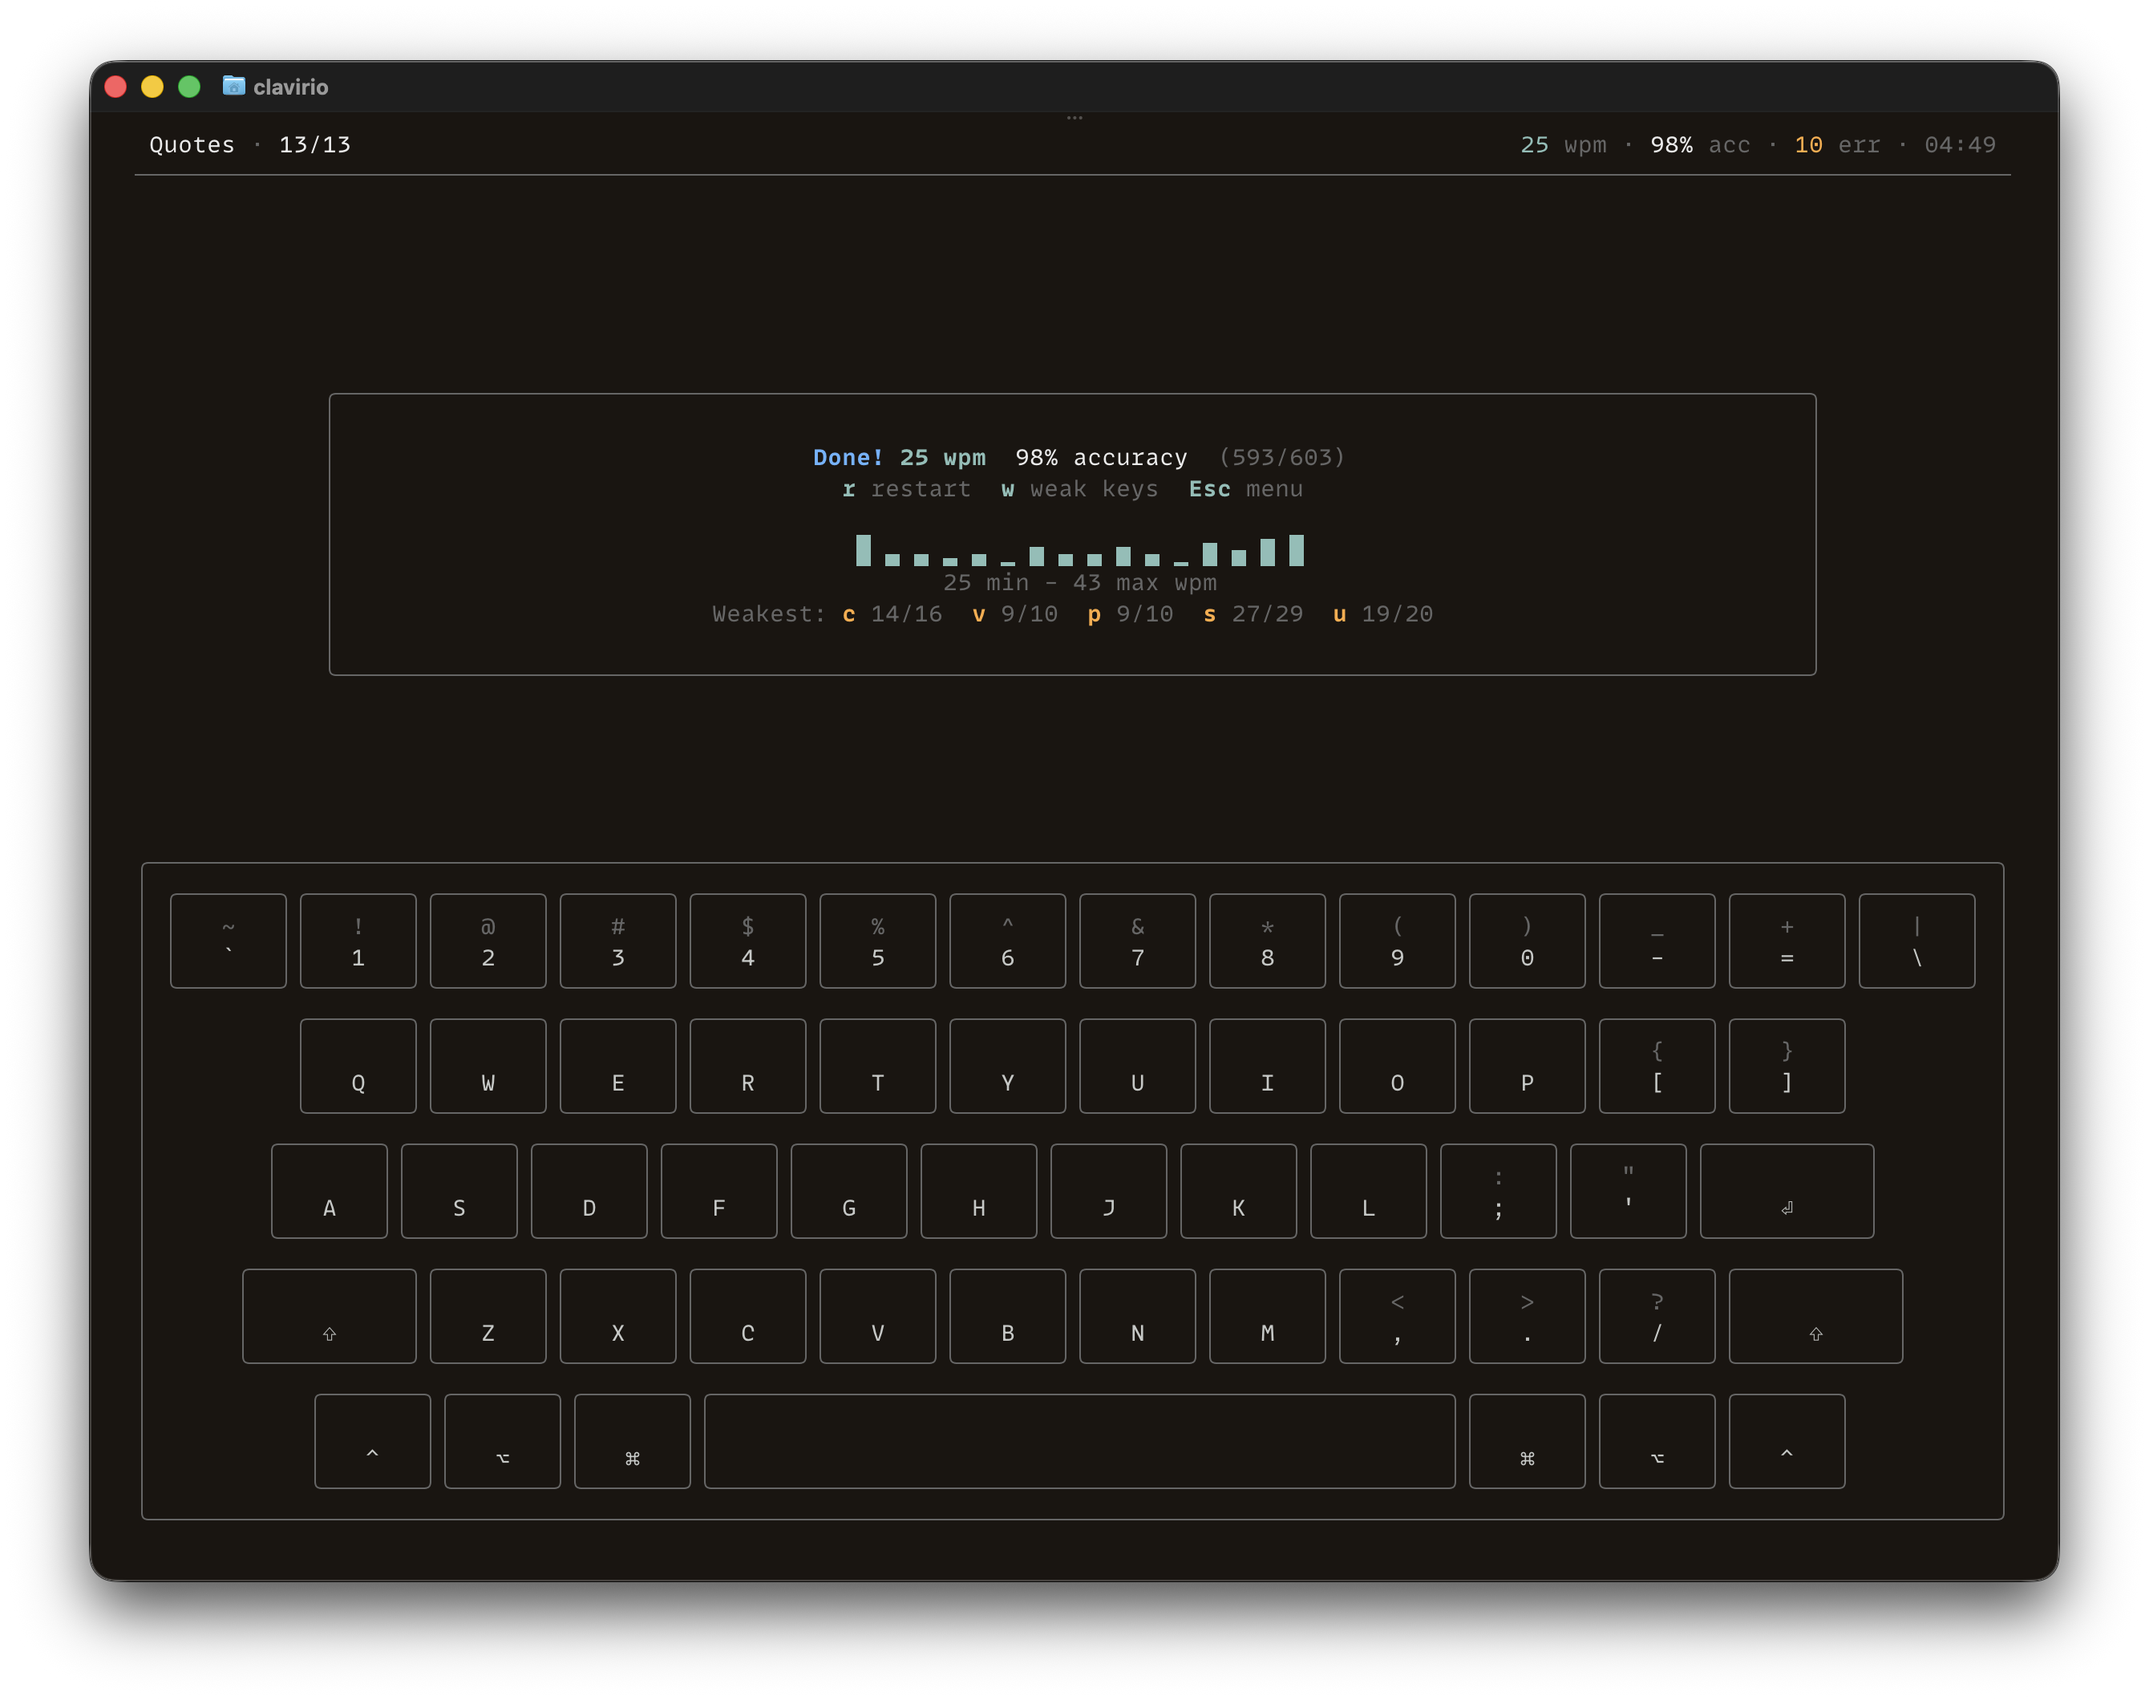
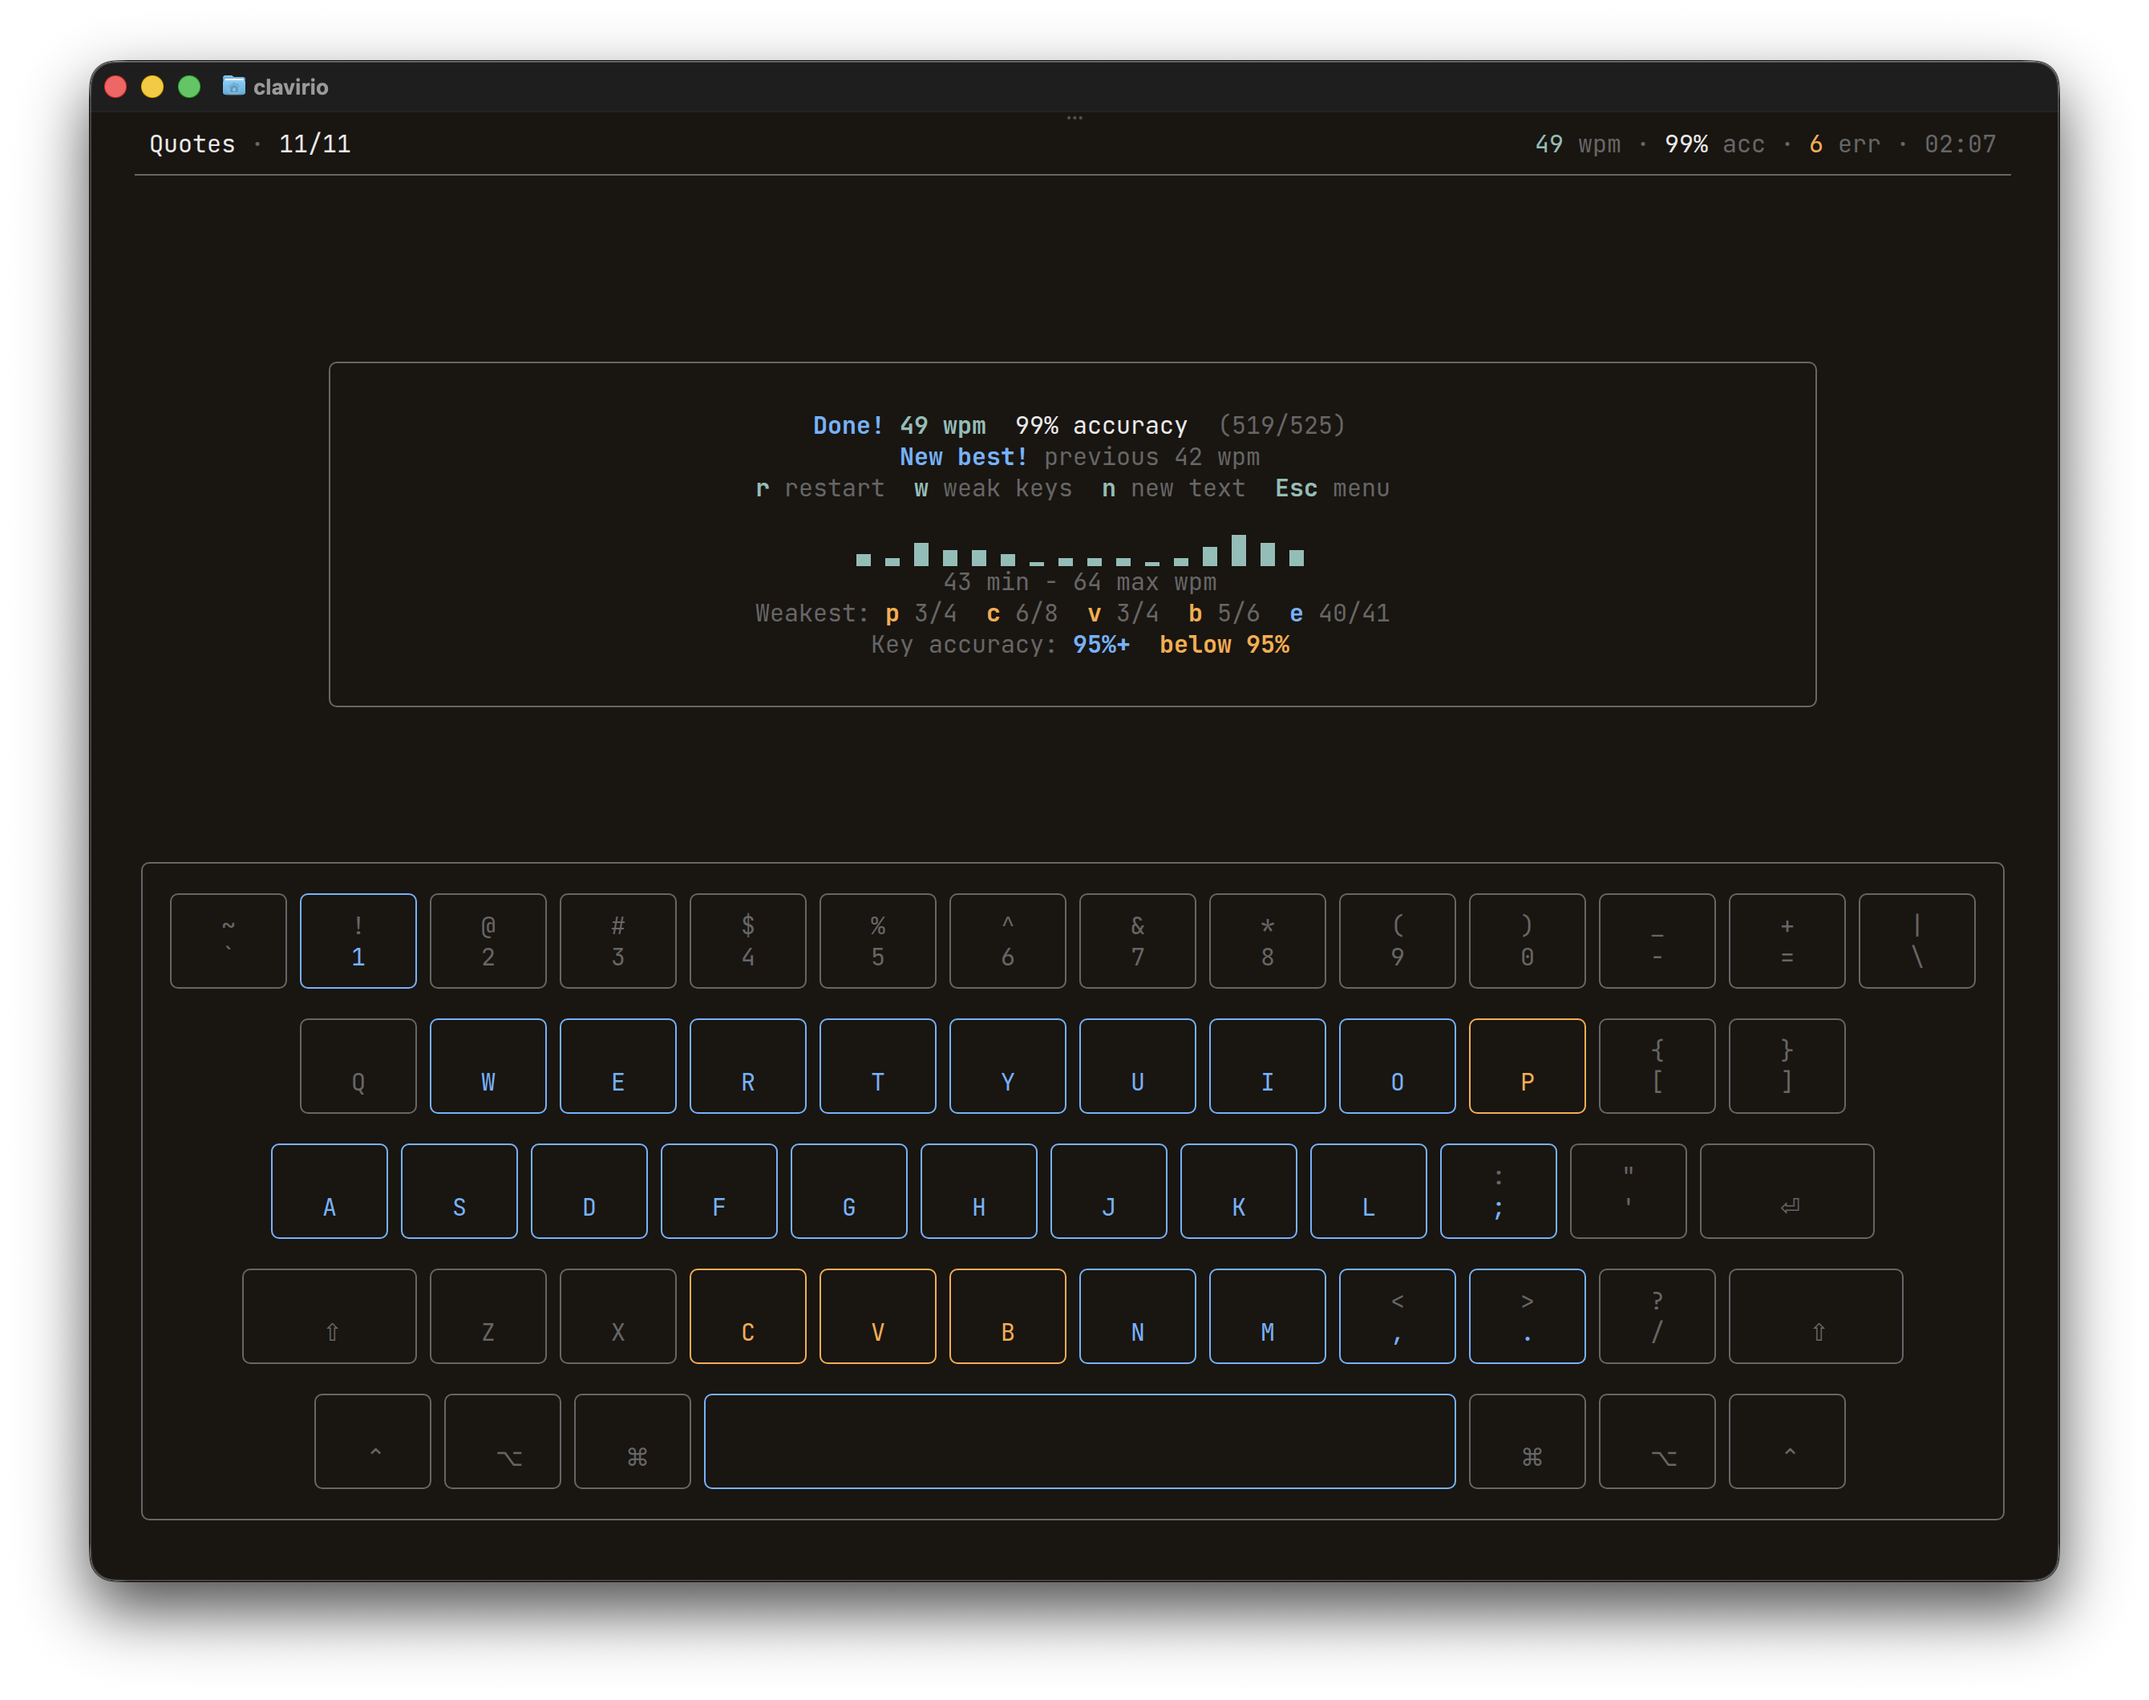
Replace the filled weak keys with a legend for the results keyboard colours and update the results screenshot

diff --git a/src/ui.rs b/src/ui.rs
@@ -52,8 +52,6 @@ const MAX_KEY_WIDTH: u16 = 9;
 const MAX_WIDTH: u16 = WIDEST_ROW_KEYS * MAX_KEY_WIDTH + 2 * KEYBOARD_FRAME_COLS;
 const SPACE_ERROR_SYMBOL: &str = "\u{2423}";
 const WEAKEST_KEYS_SHOWN: usize = 5;
-/// Below this accuracy, in percent as shown, a key is filled on the results keyboard
-const WEAK_KEY_ACCURACY: f64 = 90.0;
 const ELLIPSIS: &str = "\u{2026}";
 const PROMPT_CURSOR: &str = "\u{258c}";
 /// The columns before a menu item's label: its `▸` marker and a space each side
@@ -727,7 +725,21 @@ fn best_line(app: &App, tc: &ThemeColors) -> Option<Line<'static>> {
     Some(line)
 }
 
-fn results_lines(app: &App, tc: &ThemeColors) -> Vec<Line<'static>> {
+/// What the colours of the results keyboard mean
+fn key_accuracy_legend(tc: &ThemeColors) -> Line<'static> {
+    let pass = crate::lessons::PASS_ACCURACY;
+    Line::from(vec![
+        Span::styled("Key accuracy: ", Style::new().fg(tc.dim_text)),
+        Span::styled(format!("{pass:.0}%+"), Style::new().fg(tc.correct).bold()),
+        Span::styled("  ", Style::new().fg(tc.dim_text)),
+        Span::styled(
+            format!("below {pass:.0}%"),
+            Style::new().fg(tc.incorrect).bold(),
+        ),
+    ])
+}
+
+fn results_lines(app: &App, tc: &ThemeColors, keyboard_shown: bool) -> Vec<Line<'static>> {
     let score = Line::from(vec![
         Span::styled("Done! ", Style::new().fg(tc.correct).bold()),
         Span::styled(
@@ -788,13 +800,20 @@ fn results_lines(app: &App, tc: &ThemeColors) -> Vec<Line<'static>> {
             } else {
                 ch.to_string()
             };
-            spans.push(Span::styled(label, Style::new().fg(tc.incorrect).bold()));
+            let accuracy = f64::from(*correct) * 100.0 / f64::from(*total);
+            spans.push(Span::styled(
+                label,
+                Style::new().fg(accuracy_color(accuracy, tc)).bold(),
+            ));
             spans.push(Span::styled(
                 format!(" {correct}/{total}"),
                 Style::new().fg(tc.dim_text),
             ));
         }
         lines.push(Line::from(spans));
+    }
+    if keyboard_shown {
+        lines.push(key_accuracy_legend(tc));
     }
     lines
 }
@@ -830,7 +849,7 @@ fn draw_text_panel(frame: &mut Frame, app: &App, area: Rect, tc: &ThemeColors) {
         TYPING_PANEL_ROWS
     };
     let results = if app.is_finished() {
-        results_lines(app, tc)
+        results_lines(app, tc, app.show_keyboard && keyboard_fits(frame.area()))
     } else {
         Vec::new()
     };
@@ -1477,7 +1496,6 @@ struct KeyColors {
     border: Color,
     label: Color,
     secondary: Color,
-    fill: Option<Color>,
 }
 
 fn typing_key_colors(
@@ -1497,33 +1515,31 @@ fn typing_key_colors(
         border,
         label,
         secondary,
-        fill: None,
     }
 }
 
-/// A badly typed key is filled, so it stands out without telling colours apart
+/// Blue from the pass mark, orange below it, as the results legend says
+fn accuracy_color(accuracy: f64, tc: &ThemeColors) -> Color {
+    if crate::lessons::is_passed(accuracy) {
+        tc.correct
+    } else {
+        tc.incorrect
+    }
+}
+
 fn accuracy_key_colors(accuracy: Option<f64>, tc: &ThemeColors) -> KeyColors {
     let outlined = |color| KeyColors {
         border: color,
         label: color,
         secondary: tc.dim_text,
-        fill: None,
     };
     match accuracy {
         None => KeyColors {
             border: tc.dim_border,
             label: tc.dim_text,
             secondary: tc.dim_text,
-            fill: None,
         },
-        Some(acc) if acc.round_ties_even() < WEAK_KEY_ACCURACY => KeyColors {
-            border: tc.incorrect,
-            label: tc.cursor_fg,
-            secondary: tc.cursor_fg,
-            fill: Some(tc.incorrect),
-        },
-        Some(acc) if crate::lessons::is_passed(acc) => outlined(tc.correct),
-        Some(_) => outlined(tc.incorrect),
+        Some(acc) => outlined(accuracy_color(acc, tc)),
     }
 }
 
@@ -1566,13 +1582,10 @@ fn draw_keyboard(
                     tc,
                 ),
             };
-            let mut block = Block::new()
+            let block = Block::new()
                 .borders(Borders::ALL)
                 .border_type(BorderType::Rounded)
                 .border_style(Style::new().fg(colors.border));
-            if let Some(fill) = colors.fill {
-                block = block.style(Style::new().bg(fill));
-            }
 
             let inner = block.inner(cell);
             frame.render_widget(block, cell);
@@ -1734,13 +1747,22 @@ mod tests {
         assert!(
             cells
                 .iter()
-                .any(|c| c.symbol() == "J" && c.bg == tc.incorrect)
+                .any(|c| c.symbol() == "J" && c.fg == tc.incorrect)
         );
         assert!(
             !cells
                 .iter()
-                .any(|c| c.fg == tc.correct || c.fg == tc.finger_label)
+                .any(|c| c.fg == tc.correct || c.fg == tc.finger_label || c.bg != Color::Reset)
         );
+        let shows_legend = |app: &App| {
+            let regions = compute_regions(area, app.show_keyboard);
+            let rows = render(area.width, area.height, |frame| draw(frame, app, &regions));
+            rows.iter()
+                .any(|row| row.contains("Key accuracy: 95%+  below 95%"))
+        };
+        assert!(shows_legend(&app));
+        app.show_keyboard = false;
+        assert!(!shows_legend(&app));
     }
 
     #[test]

diff --git a/README.md b/README.md
@@ -55,7 +55,7 @@ Clavirio's approach to practicing key movements; the study did not test these le
 - **Lessons:** 27 drills covering the home, top, and bottom rows, followed by numbers and symbols. Lessons 1–21 adapt to your layout; lessons 22–27 are shared.
 - **Practice:** Random words from the English 200 or 1k lists, or from a file of your own with `-l`; code terms for Rust, Python, JavaScript, Go, C/C++, Java, and HTML/CSS; 30- or 60-second sessions; weak keys; common bigrams; quotes; and Zen mode for free typing.
 - **Punctuation and numbers:** Optionally add them to random word or code practice. Use `5` and `6` in the practice menu to toggle them.
-- **Live feedback:** WPM, accuracy, errors, time (elapsed, or remaining in timed sessions), and line progress appear in a single status row. The results screen shows a graph of WPM over time, and colours each key typed by its accuracy: filled below 90%, orange below 95%, and blue from 95%, the mark a lesson is passed at.
+- **Live feedback:** WPM, accuracy, errors, time (elapsed, or remaining in timed sessions), and line progress appear in a single status row. The results screen shows a graph of WPM over time, and colours each key typed by its accuracy: blue from 95%, the mark a lesson is passed at, and orange below it, as a legend under the results says.
 - **Keyboard and layouts:** Switch between QWERTY, Dvorak, and Colemak. The virtual keyboard highlights the next key and shows finger hints: **P**inky, **R**ing, **M**iddle, **I**ndex, and **T**humb.
 - **Error handling:** By default, typing continues after a mistake, and Backspace lets you correct it within the current word. Turn on error stop to require a correction before continuing.
 - **Weak key practice:** Accuracy for each key is saved across sessions. After a drill, press `w` to practice that session's weakest keys, or your saved weak keys if the session has none. Choose Weak Keys from the practice menu to use your cumulative stats.

diff --git a/CHANGELOG.md b/CHANGELOG.md
@@ -4,7 +4,7 @@
 
 ### Added
 - `n` on the results screen of a practice starts the same practice with new text (after a weak-key drill, with the same keys); `r` still retypes the same text
-- The results screen colours each key on the keyboard by its accuracy in the session: filled below 90%, orange below the 95% pass mark, and blue from it; keys not typed are dim
+- The results screen colours each key on the keyboard by its accuracy in the session, blue from the 95% pass mark and orange below it, with a legend under the results; keys not typed are dim, and the weakest keys listed are coloured the same way
 - The results screen shows the best earlier wpm for the same lesson or practice on the same layout, or "New best!" when it is beaten; a lesson attempt counts only when it is passed, and a file loaded with `-f` or `Ctrl-F` is compared only with the file at the same path. History records now keep the layout, and older ones, typed on a layout that isn't known, aren't compared
 - `-l` also takes the path of a text file of words separated by spaces or new lines, for random words and timed practice in any language, for example `clavirio -t 60 -l words.txt`. The words are picked like a built-in list's, work with `-p` and `-n`, and are cleaned like a custom text file, which can be up to 1 MB; words wider than a line (60 columns) are left out. The history names the session after the file, and the results screen compares it with earlier sessions of the file at the same path
 
